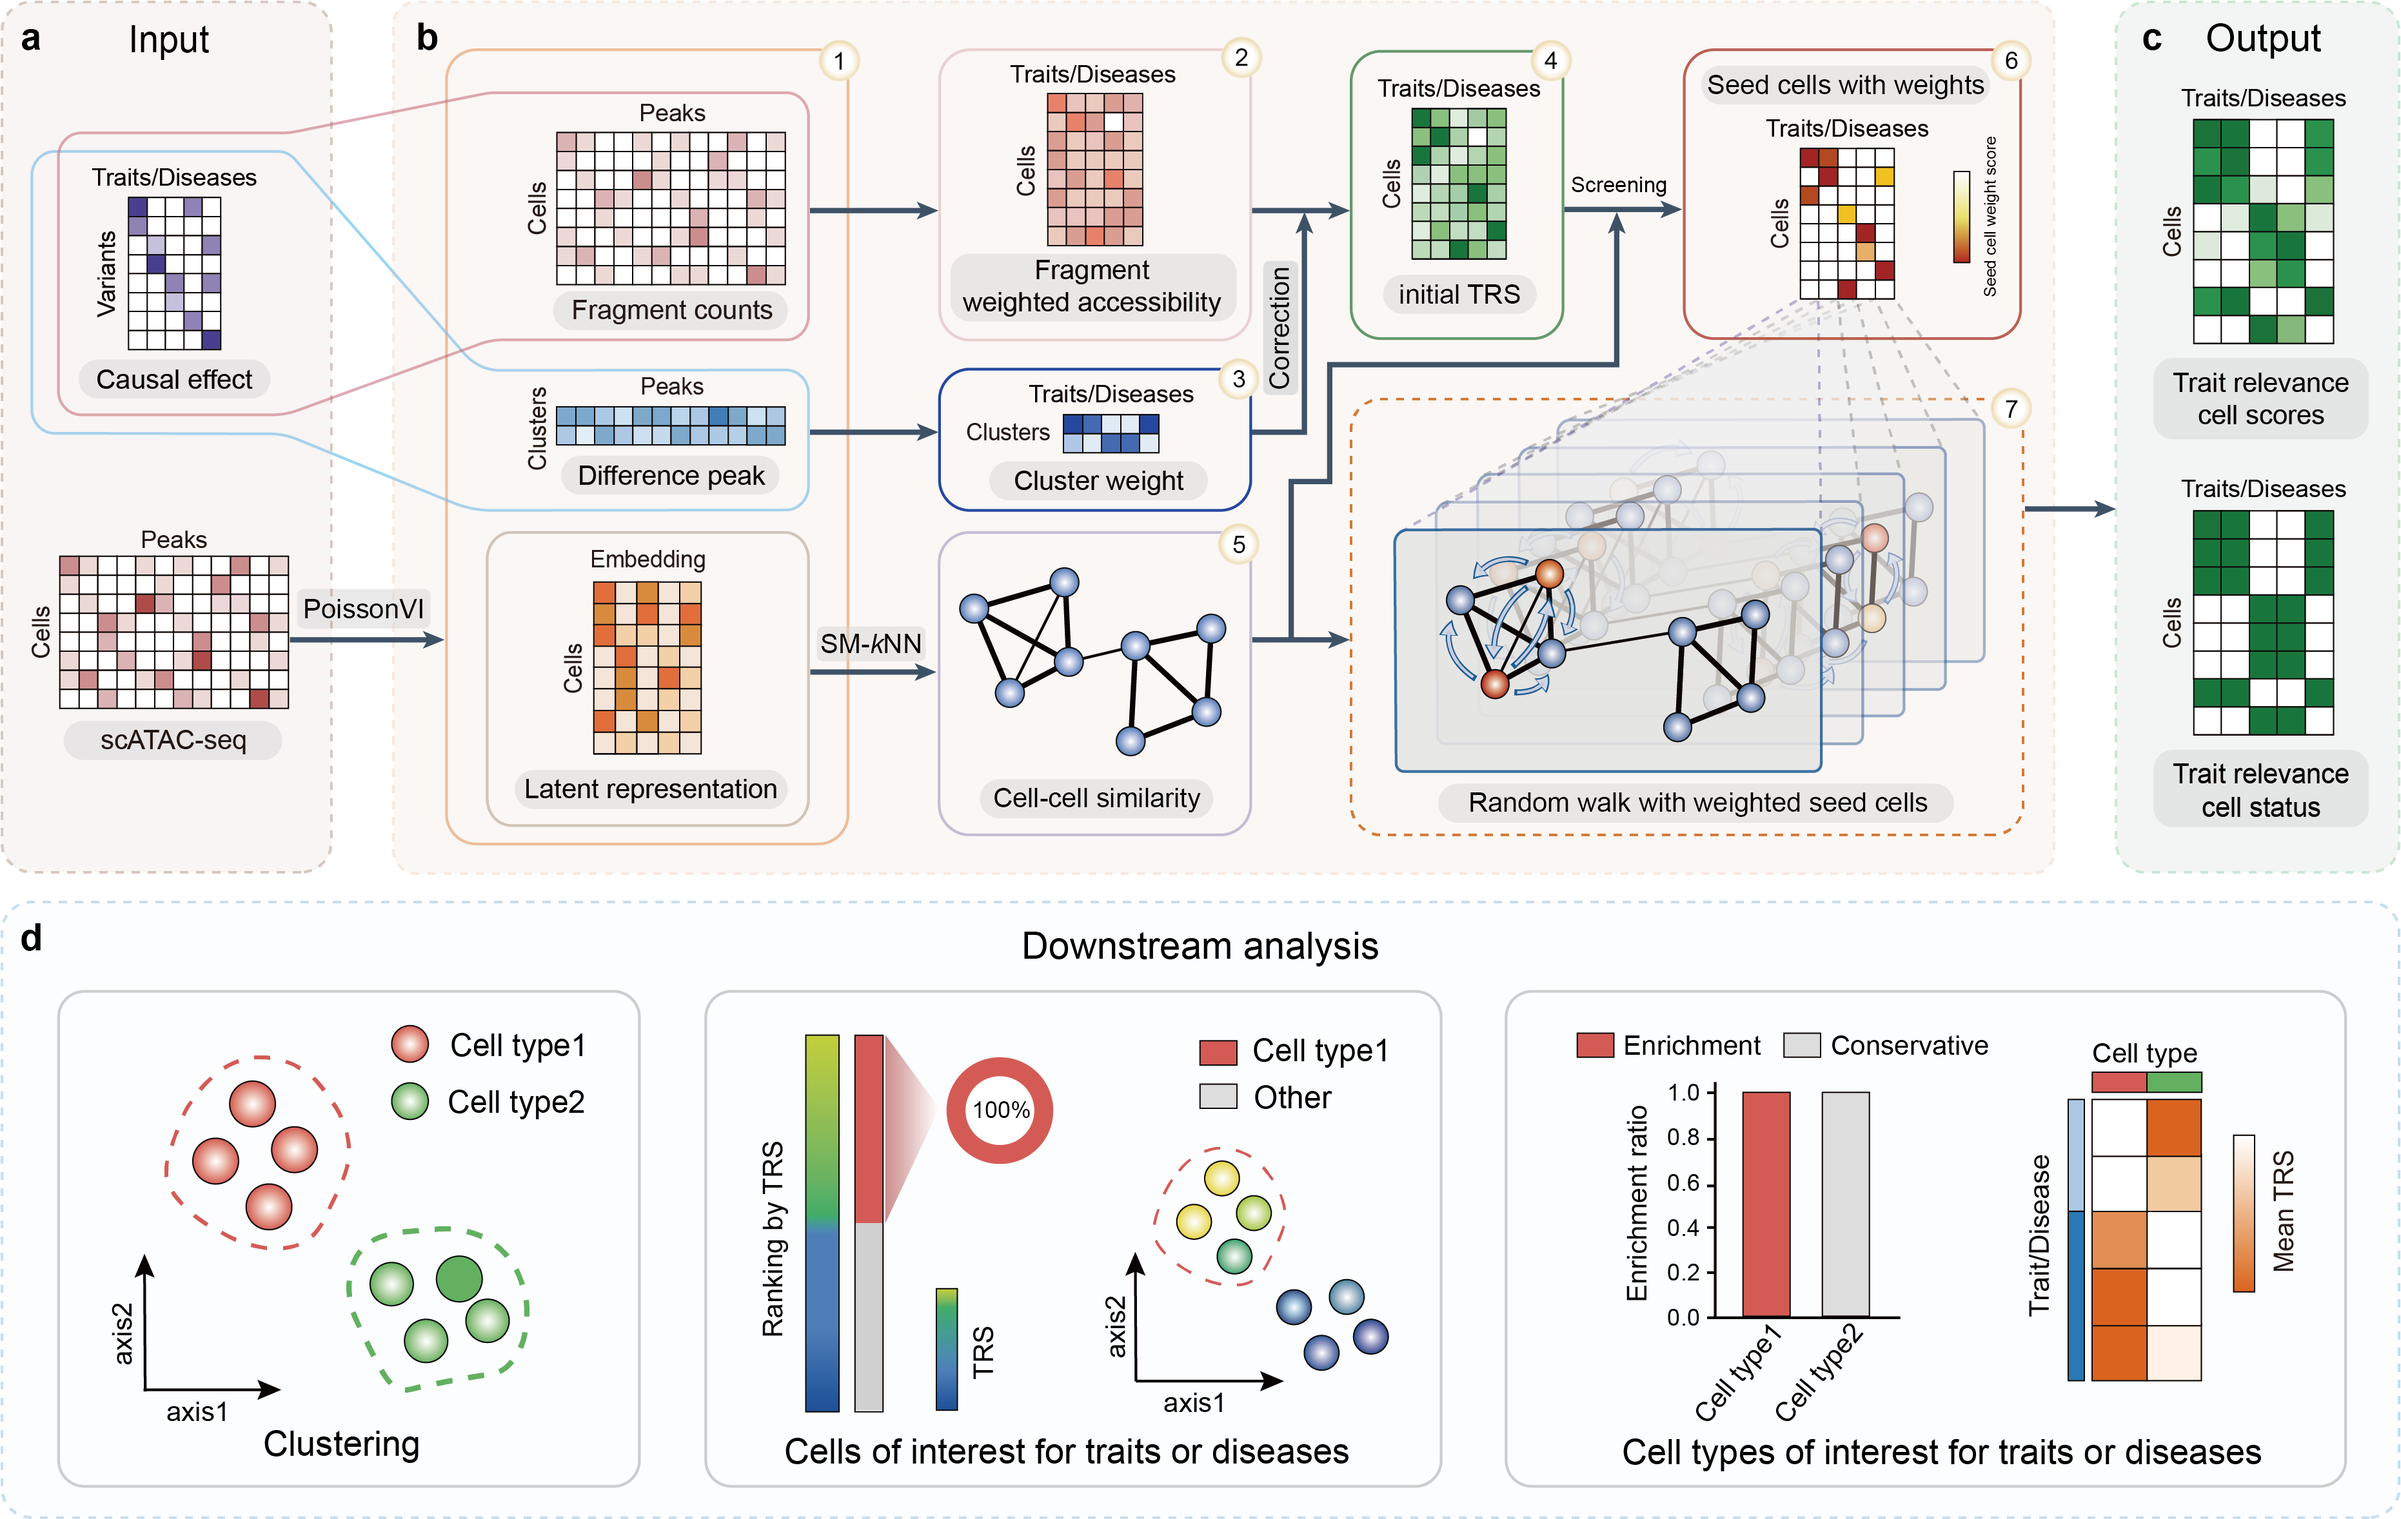
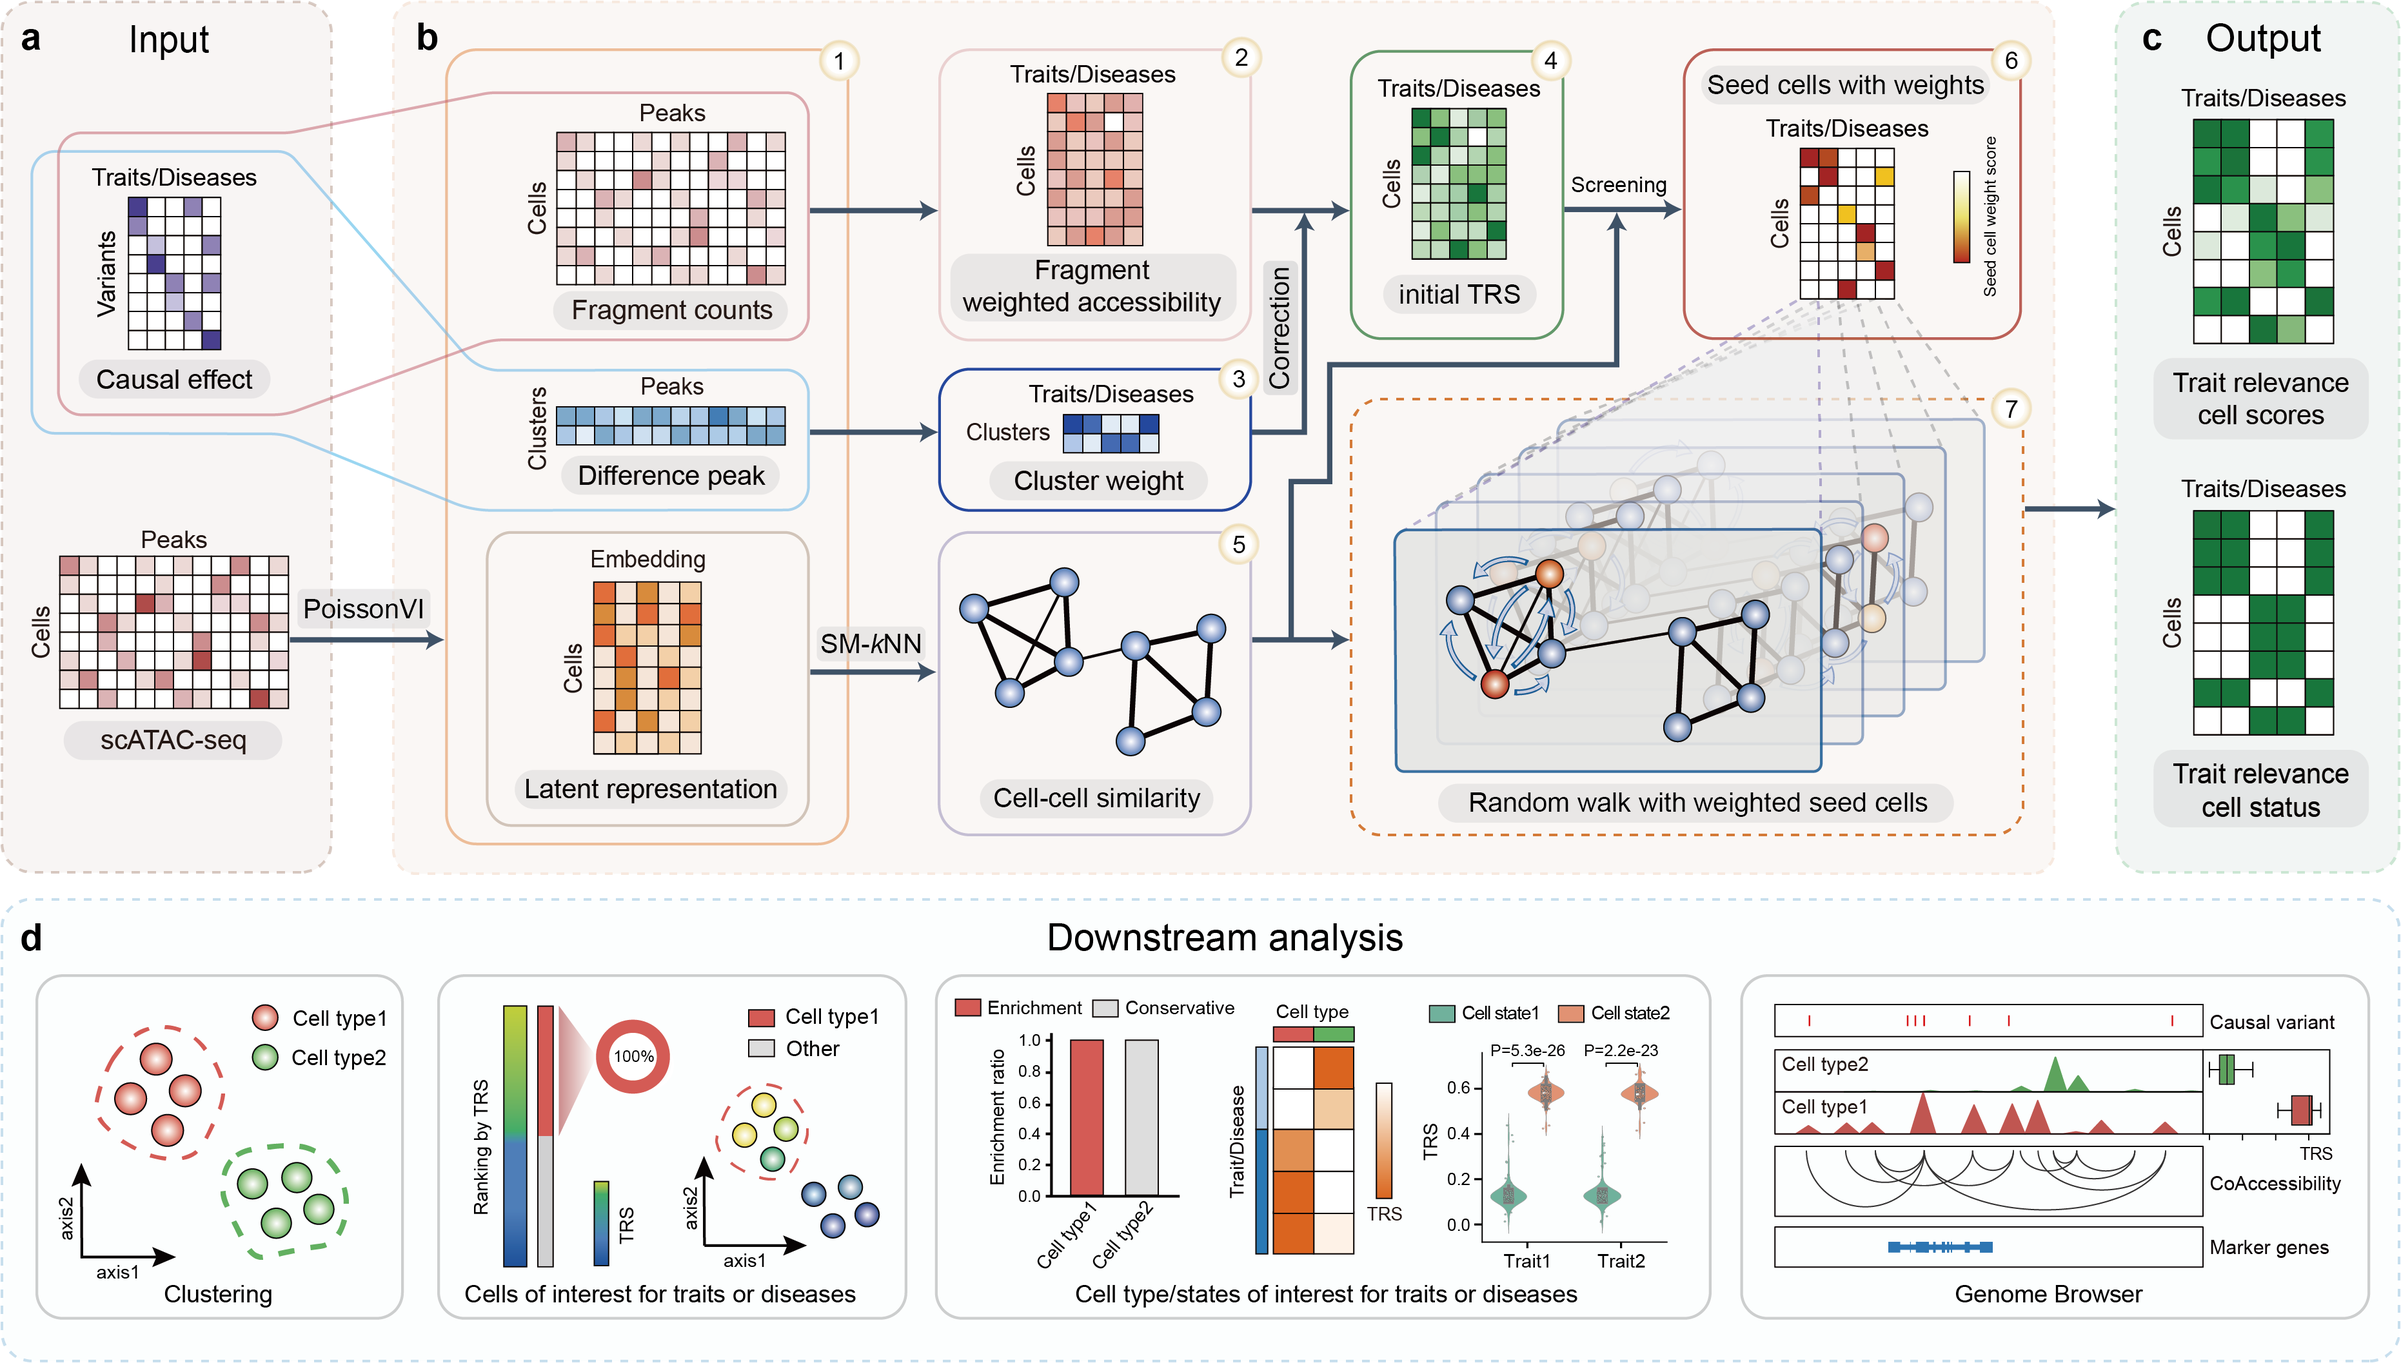
Chore: Update to version 0.0.191

diff --git a/src/sciv/plot/_violin_.py b/src/sciv/plot/_violin_.py
@@ -166,10 +166,10 @@ def violin(
 
 def violin_significance(
     df: DataFrame,
-    value: str = "value",
+    value: str,
+    groupby: str,
     x_name: str = None,
-    y_name: str = "value",
-    groupby: str = "clusters",
+    y_name: str = None,
     palette: Union[Tuple, list, str, dict] = None,
     hue: str = None,
     order_names: list = None,
@@ -261,6 +261,7 @@ def violin_significance(
     new_df: DataFrame = df.groupby(group_columns, as_index=False)[value].median()
 
     colors: list = []
+
     if "color" in df_columns:
         new_df_color: DataFrame = df.groupby(group_columns, as_index=False)["color"].first()
         new_df = new_df.merge(new_df_color, how="left", on=groupby)
@@ -282,7 +283,7 @@ def violin_significance(
                     c_val = new_df.loc[i, "color"]
                     colors.append(c_val.iloc[0] if isinstance(c_val, (list, np.ndarray, pd.Series)) else c_val)
 
-    final_palette = palette if palette is not None else (colors if len(colors) > 0 else None)
+    final_palette = palette if palette is not None else (colors if len(colors) > 0 else "Set2")
 
     # --- 4. Plotting Layers ---
 

diff --git a/docs/source/conf.py b/docs/source/conf.py
@@ -9,7 +9,7 @@ sys.path[:0] = [str(HERE.parent / "src"), str(HERE.parent), str(HERE / "extensio
 # -- Project information
 
 project = 'SCIV'
-copyright = '2025, Zheng-Min Yu'
+copyright = '2026, Zheng-Min Yu'
 author = 'Zheng-Min Yu'
 repository_url = "https://github.com/YuZhengM/sciv"
 

diff --git a/docs/source/api.rst b/docs/source/api.rst
@@ -11,7 +11,7 @@ Download (.dl)
 Data download interface, used to download single-cell data and trait files.
 
 .. automodule:: sciv.dl
-   :members: download_sc_atac_file, download_trait_file, download_trs_file, download_trs_score_file, read_sc_atac_file, read_trait_file, read_trs_file, read_trs_score_file
+   :members:
    :undoc-members:
    :show-inheritance:
 
@@ -21,7 +21,7 @@ File (.fl)
 File read-write interface, used for processing single-cell ATAC data, H5AD, H5 and other format files.
 
 .. automodule:: sciv.fl
-   :members: barcodes_add_anno, read_barcodes_file, read_sc_atac, read_sc_atac_10x_h5, read_h5ad, read_h5, read_variants, read_pkl, to_meta, to_fragments, save_h5ad, save_h5, save_pkl
+   :members:
    :undoc-members:
    :show-inheritance:
 
@@ -31,7 +31,7 @@ Model (.ml)
 The core interface of the model provides functions for cell type association analysis and causal variation recognition.
 
 .. automodule:: sciv.ml
-   :members: trs, association_score, knock, vrs
+   :members:
    :undoc-members:
    :show-inheritance:
 
@@ -40,133 +40,8 @@ Plot (.pl)
 
 Visual interface, including multiple chart types for data analysis and presentation.
 
-Graph
-^^^^^^^^^^^^^^^^^^^^^^^^^^^
-
-Network diagram visualization function.
-
 .. automodule:: sciv.pl
-   :members: graph, communities_graph, network_two_types
-   :undoc-members:
-   :show-inheritance:
-
-Heatmap
-^^^^^^^^^^^^^^^^^^^^^^^^^^^
-
-Heatmap visualization function.
-
-.. automodule:: sciv.pl
-   :members: heatmap, heatmap_annotation
-   :undoc-members:
-   :show-inheritance:
-
-Scatter
-^^^^^^^^^^^^^^^^^^^^^^^^^^^
-
-Scatter chart visualization function.
-
-.. automodule:: sciv.pl
-   :members: scatter, scatter_3d, scatter_element, volcano, manhattan, pseudo_time_score
-   :undoc-members:
-   :show-inheritance:
-
-Violin
-^^^^^^^^^^^^^^^^^^^^^^^^^^^
-
-Violin chart visualization function.
-
-.. automodule:: sciv.pl
-   :members: violin
-   :undoc-members:
-   :show-inheritance:
-
-Box
-^^^^^^^^^^^^^^^^^^^^^^^^^^^
-
-Visualization function of box diagram.
-
-.. automodule:: sciv.pl
-   :members: box
-   :undoc-members:
-   :show-inheritance:
-
-KDE
-^^^^^^^^^^^^^^^^^^^^^^^^^^^
-
-Visualization function of kernel density estimation map.
-
-.. automodule:: sciv.pl
-   :members: kde
-   :undoc-members:
-   :show-inheritance:
-
-Line
-^^^^^^^^^^^^^^^^^^^^^^^^^^^
-
-Line chart visualization function.
-
-.. automodule:: sciv.pl
-   :members: line
-   :undoc-members:
-   :show-inheritance:
-
-Bar
-^^^^^^^^^^^^^^^^^^^^^^^^^^^
-
-Bar chart visualization function.
-
-.. automodule:: sciv.pl
-   :members: bar_class, bar, bar_two, bar_significance
-   :undoc-members:
-   :show-inheritance:
-
-Barcode
-^^^^^^^^^^^^^^^^^^^^^^^^^^^
-
-Barcode visualization function.
-
-.. automodule:: sciv.pl
-   :members: barcode
-   :undoc-members:
-   :show-inheritance:
-
-Pie
-^^^^^^^^^^^^^^^^^^^^^^^^^^^
-
-Pie chart visualization function.
-
-.. automodule:: sciv.pl
-   :members: pie_label, pie
-   :undoc-members:
-   :show-inheritance:
-
-Bubble
-^^^^^^^^^^^^^^^^^^^^^^^^^^^
-
-Bubble chart visualization function.
-
-.. automodule:: sciv.pl
-   :members: bubble
-   :undoc-members:
-   :show-inheritance:
-
-Radar
-^^^^^^^^^^^^^^^^^^^^^^^^^^^
-
-Radar visualization function.
-
-.. automodule:: sciv.pl
-   :members: radar, radar_base
-   :undoc-members:
-   :show-inheritance:
-
-Venn
-^^^^^^^^^^^^^^^^^^^^^^^^^^^
-
-Wayne diagram visualization function.
-
-.. automodule:: sciv.pl
-   :members: venn_three, venn_two
+   :members:
    :undoc-members:
    :show-inheritance:
 
@@ -176,7 +51,7 @@ Preprocessing (.pp)
 Data preprocessing interface, used for single-cell data cleaning, differential analysis, and enrichment analysis.
 
 .. automodule:: sciv.pp
-   :members: filter_data, get_difference_genes, get_difference_peaks, paga_trajectory, adata_map_df, adata_group, poisson_vi, gsea_enrichr, get_gene_enrichment, get_sc_atac, merge_sc_atac, get_gene_expression, get_peak_matrix, get_tf_data
+   :members:
    :undoc-members:
    :show-inheritance:
 
@@ -191,7 +66,7 @@ Algorithm
 Algorithm related functions.
 
 .. automodule:: sciv.tl
-   :members: sigmoid, tf_idf, z_score_normalize, z_score_marginal, marginal_normalize, min_max_norm, symmetric_scale, mean_symmetric_scale, coefficient_of_variation, is_asc_sort, lsi, pca, jaccard_similarity, spectral_eigenmaps, semi_mutual_knn_weight, k_means, spectral_clustering, tsne, umap, kl_divergence, safe_kl_divergence, calinski_harabasz, silhouette, davies_bouldin, ari, ami, binary_indicator, z_score_to_p_value, euclidean_distances, overlap, overlap_sum, calculate_fragment_weighted_accessibility, calculate_init_score_weight, obtain_cell_cell_network, perturb_data, add_bernoulli_fluctuation_noise
+   :members:
    :undoc-members:
    :show-inheritance:
 
@@ -201,7 +76,7 @@ Random Walk
 Random walk related functions.
 
 .. automodule:: sciv.tl
-   :members: trs_scale_norm, TraitDataParallel, random_walk, RandomWalk
+   :members:
    :undoc-members:
    :show-inheritance:
 
@@ -211,7 +86,7 @@ Matrix
 Matrix operation related functions.
 
 .. automodule:: sciv.tl
-   :members: split_matrix, merge_matrix, down_sampling_data, matrix_dot_block_storage, matrix_multiply_block_storage, matrix_operation_memory_efficient, vector_multiply_block_storage, matrix_division_block_storage, matrix_callback_block_storage
+   :members:
    :undoc-members:
    :show-inheritance:
 
@@ -221,6 +96,6 @@ Util (.ul)
 A universal tool interface that includes constant definitions, logging, and auxiliary functions.
 
 .. automodule:: sciv.ul
-   :members: file_method, log, track_with_memory, to_dense, to_sparse, sum_min_max, get_index, list_duplicate_set, split_matrix, merge_matrix, list_index, numerical_bisection_step, get_real_predict_label, strings_map_numbers, set_inf_value, generate_str, check_adata_get, generate_hex_colors, check_gpu_availability
+   :members:
    :undoc-members:
    :show-inheritance:

diff --git a/docs/source/usage.rst b/docs/source/usage.rst
@@ -45,7 +45,7 @@ Download the fine-mapping results for monocytes, red blood cells, CD4+ and CD8+ 
 1.1.3 Run SCIV
 *****************
 
-Obtain TRS results by executing the SCIV process using the sciv.ml.core function.
+Obtain TRS results by executing the SCIV process using the ``sciv.ml.trs`` function.
 
 (1) Create Python file:
 
@@ -70,7 +70,7 @@ Obtain TRS results by executing the SCIV process using the sciv.ml.core function
         variants, trait_info = sciv.dl.read_trait_file()
 
         # run
-        trs = sciv.ml.core(
+        trs = sciv.ml.trs(
             adata=adata,
             variants=variants,
             trait_info=trait_info,
@@ -160,7 +160,7 @@ When reading an H5AD file, ensure that the ``.var_name`` attribute of the file c
         overlap_adata=overlap_adata
     )
 
-1.2.6 Cell cell similarity network
+1.2.6 Cell-cell similarity network
 *****************************
 
 .. code-block:: python
